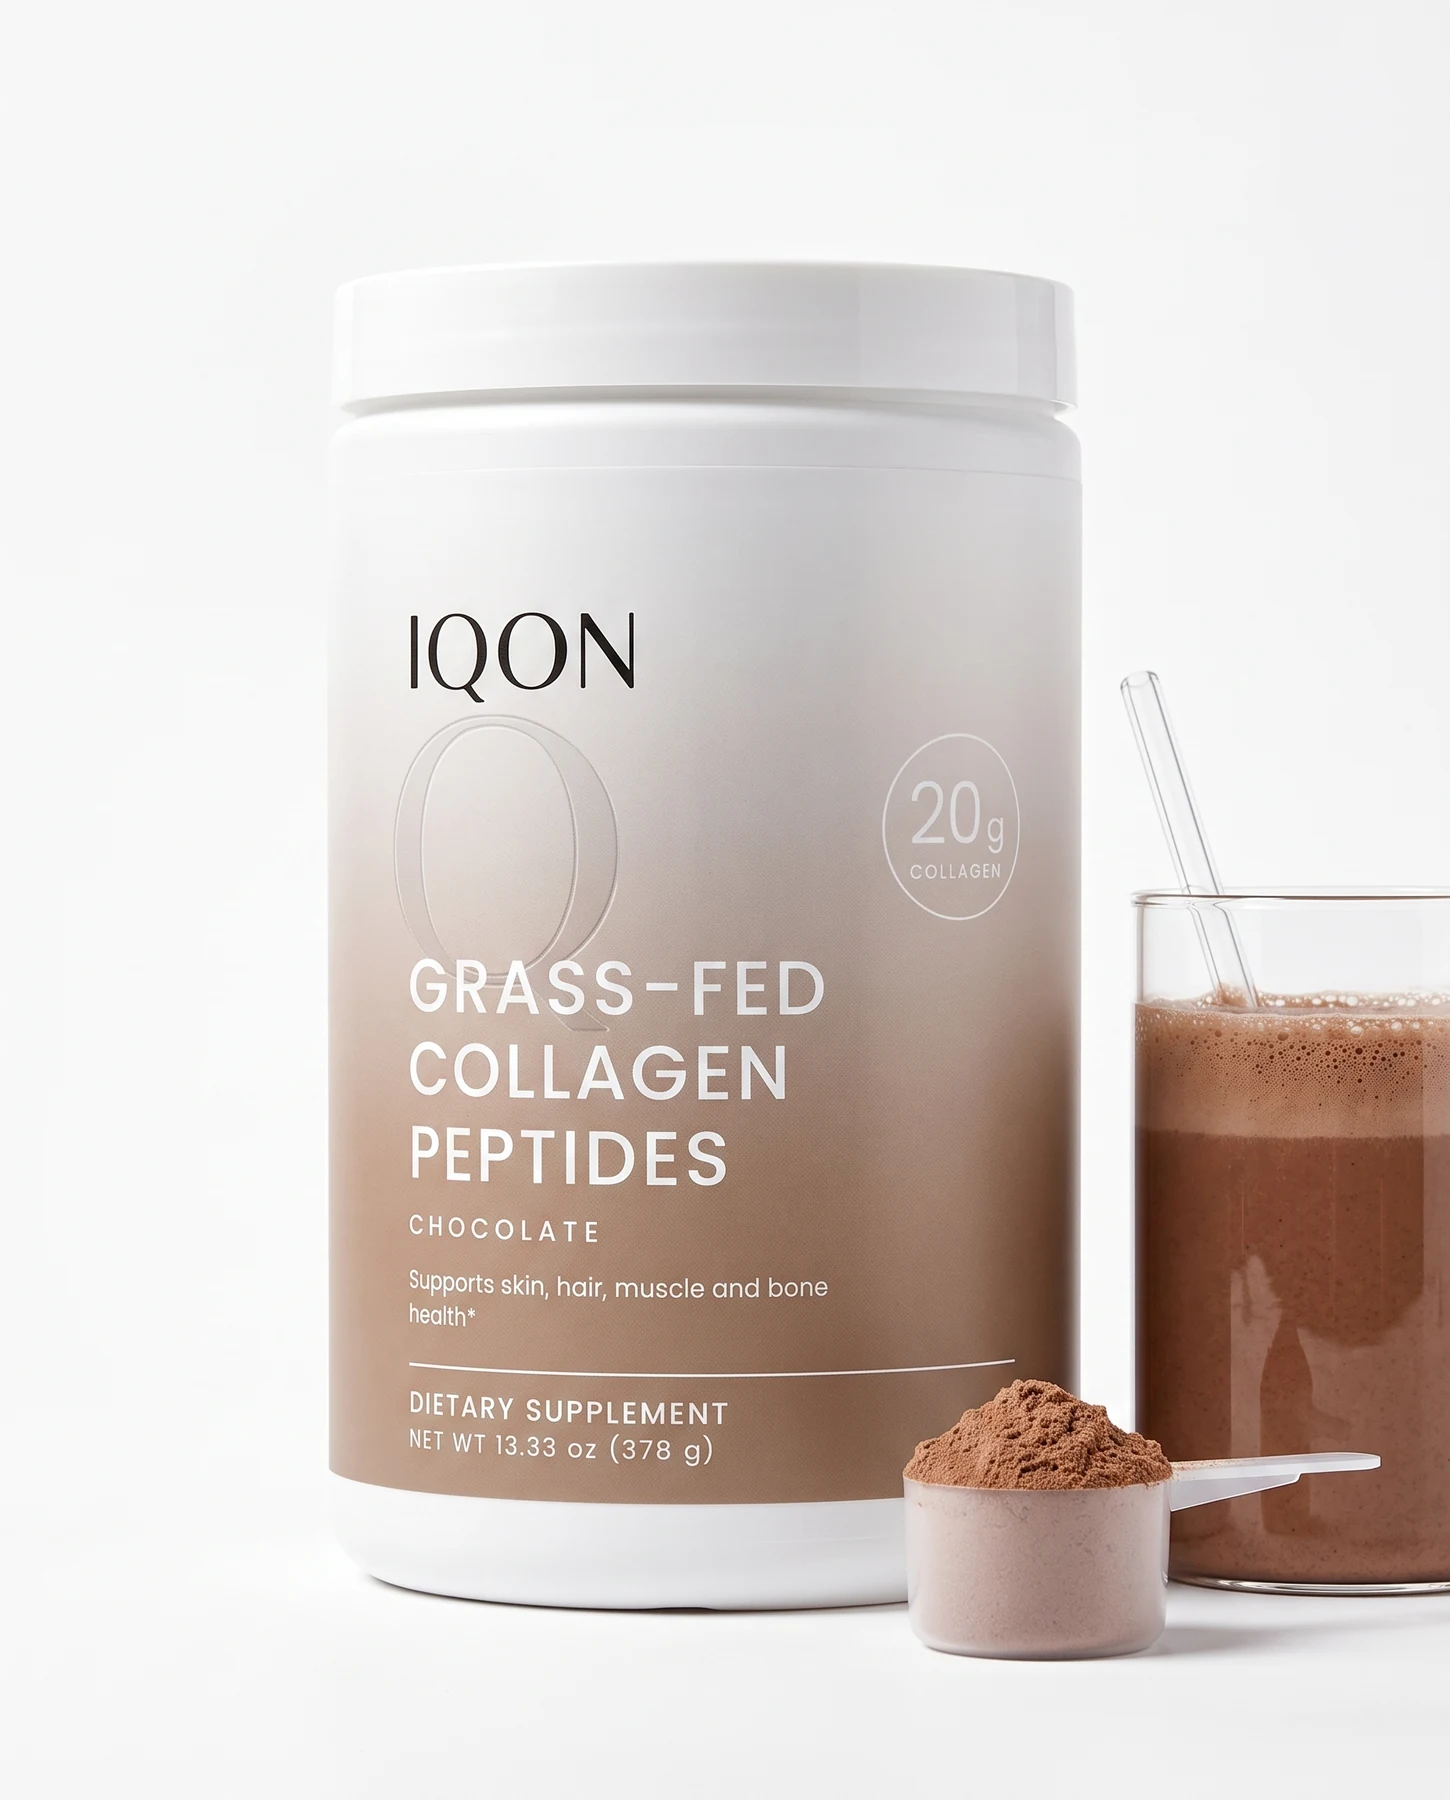
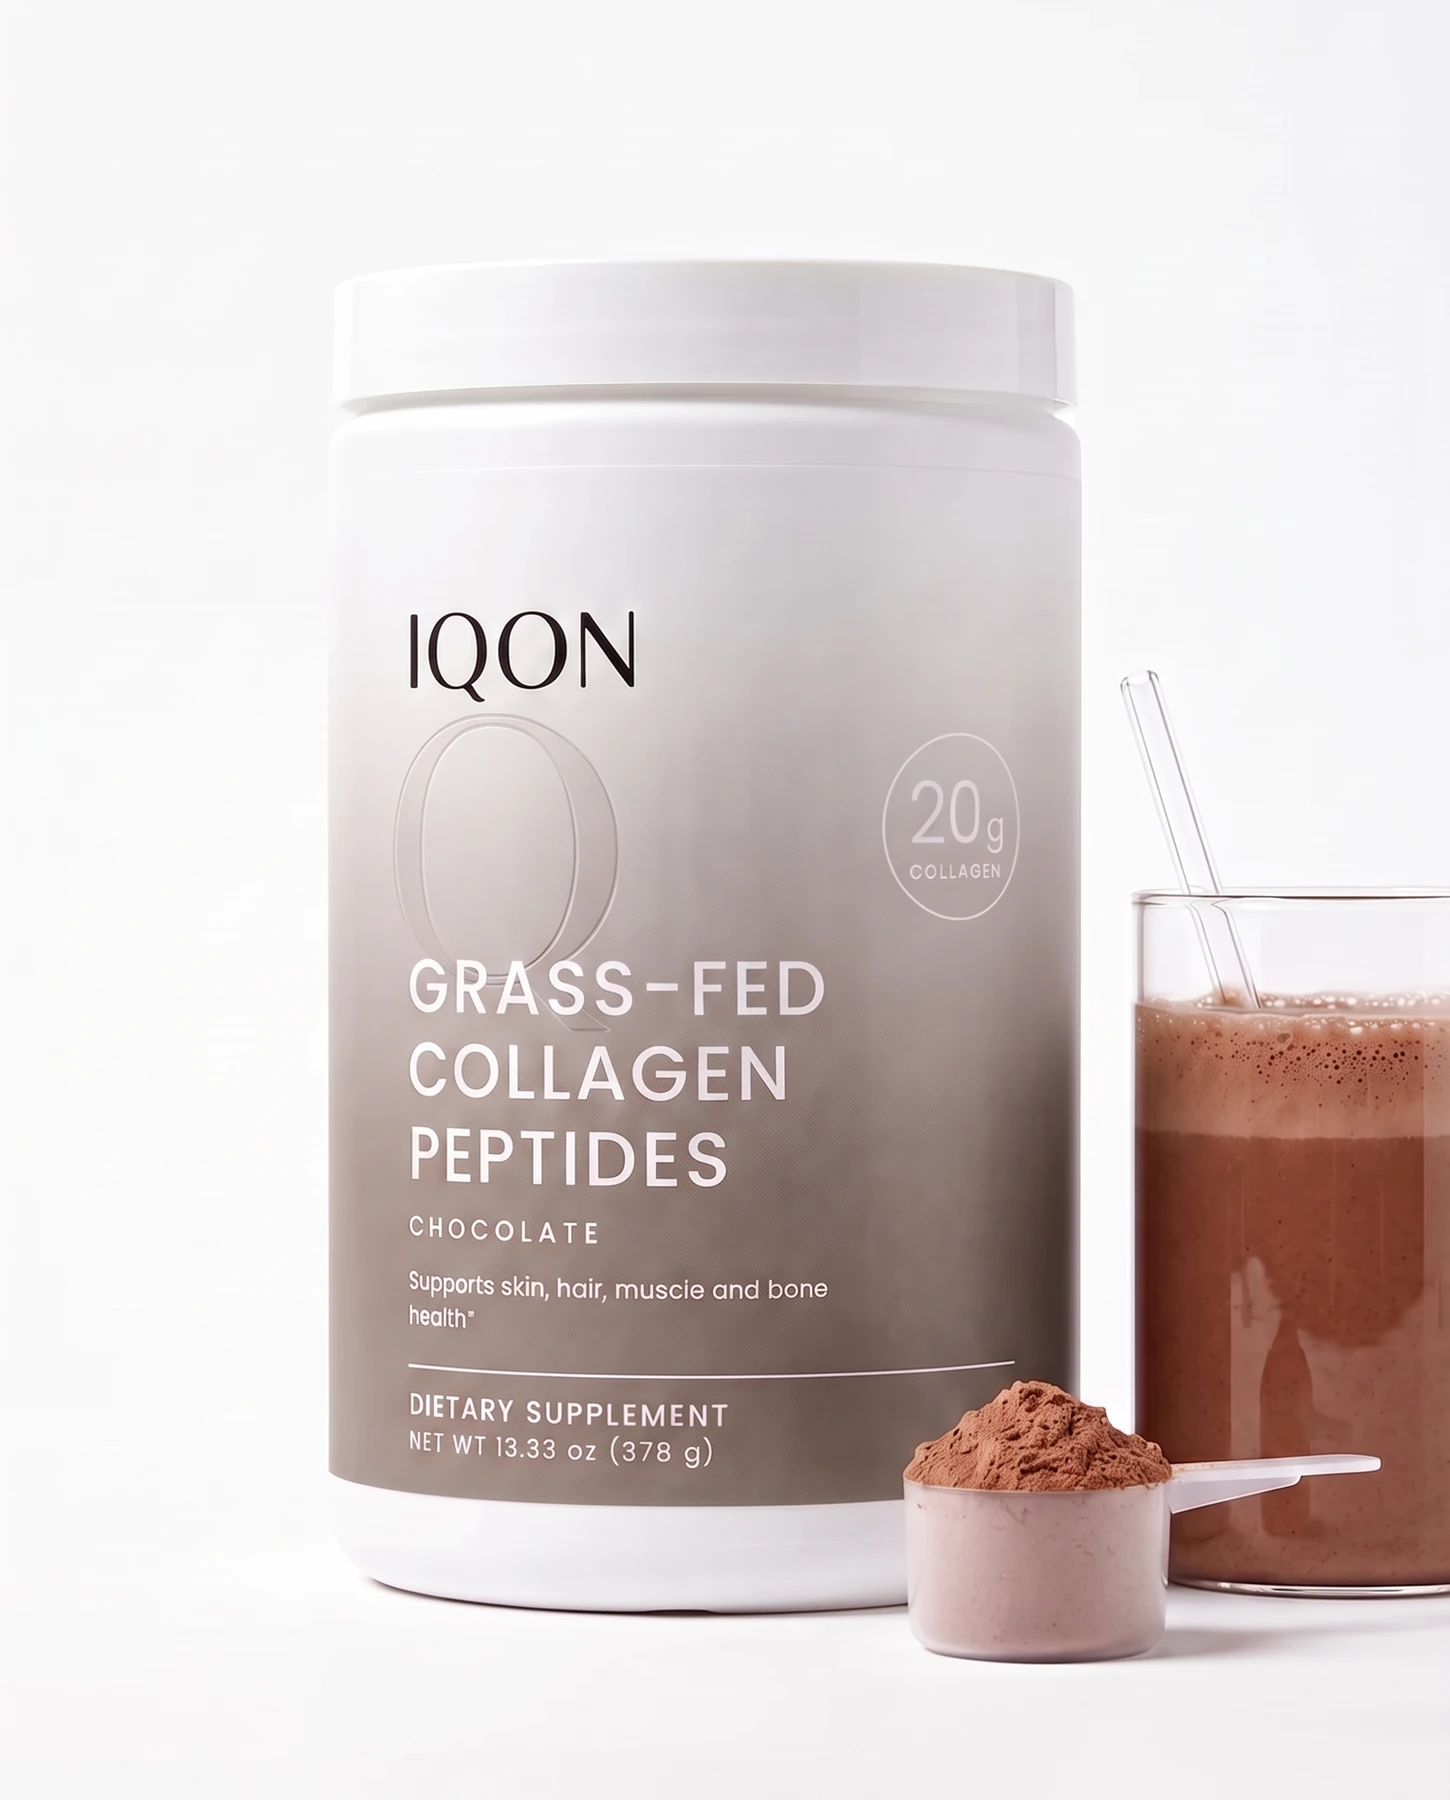
Unify supplement photography across the storefront
Replace 19 inconsistent images using the collagen studio reference. Correct creatine artwork and framing, clean up shadows and alternate views, and assemble group scenes from the selected product photographs to preserve packaging identity.

diff --git a/docs/supplement-images.md b/docs/supplement-images.md
@@ -1,6 +1,6 @@
 # Supplied supplement photography
 
-The 26 PNGs from the user-supplied IQON_supplement_images folder were converted to WebP, preserving composition and labels. Individual images are up to 1800px tall; landscape collection images are up to 2400px wide. Originals were left intact.
+The catalog started with 26 images from the user-supplied IQON_supplement_images folder. The September 9 studio consistency pass retains the matching originals and replaces inconsistent packshots, alternate views, and group compositions. Individual images are 1800px tall; the complete eleven-product lineup is 4000px wide. Source files on the user's disk were left intact.
 
 All placeholder supplement catalog entries are replaced with these 11 products. Names and sizes come from the individual packshots. Group scenes are used as editorial imagery, not as sources for specification data.
 
@@ -21,6 +21,18 @@ No prices or inventory were supplied. These records display Coming soon and cann
 | Hair, Skin & Nails Gummies | 60 gummies · Passion fruit | hair-skin-nails-gummies | 10_pack_hair_and_skin_gummies.webp, 14_hero_gummies_falling.webp, 23_group_beauty_trio.webp |
 
 The powders group appears in the homepage hero; the complete lineup appears on supplement/all collection banners and the skincare cross-link. Capsule and powder group images appear in the relevant product editorials.
+
+## Studio consistency pass — September 9, 2026
+
+All 26 photographs were visually reviewed. The unflavored collagen packshot is the lighting and material reference: white seamless sweep, soft dimensional light, muted label gradients, a thin IQON wordmark, and restrained reflections.
+
+- Retained matching original primary shots: unflavored collagen, chocolate collagen, colostrum, colon cleanse, Keto-5, and resveratrol. The NMN hand photograph also remains.
+- Rebuilt primary shots: creatine, GLP-1, liver support, NMN, and gummies. Creatine's final flat label and final reference render were inspected to replace its older centered label layout. The other existing primary shots supplied product identity references; this is not a certification that every production dieline was checked.
+- Refined alternate scenes for creatine, chocolate collagen, liver, gummies, colon cleanse, and colostrum. Removed visible marks and corrected inconsistent label treatments. Small printed text in generated scenes remains illustrative; approved label artwork and commerce records remain authoritative.
+- Replaced all seven group scenes with compositions made from the selected individual product photographs. Label pixels and container shapes are reused rather than generated again. Resveratrol's alternate image uses the same faithful packshot with new framing and a soft white setting.
+- Higgsfield supplied the image refinements. Its media sandbox performed label-area compositing, white-background cleanup, framing, group assembly, and WebP export. Rejected generations that redesigned packaging were not installed.
+
+The image paths stay stable so every catalog, gallery, search, and editorial placement receives the corrected artwork together. No product availability, price, ingredients, or purchase behavior changed.
 
 ## Framing and original logo
 
